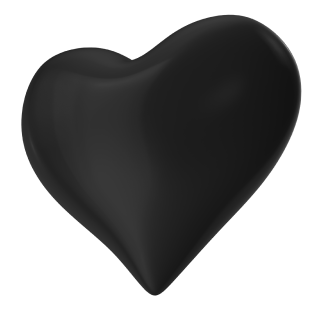
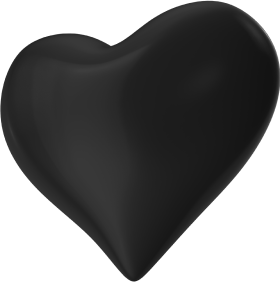
refactor: crop imgages, change styles

Changed region(s): [[0.0, 0.0, 1.0, 1.0]]

diff --git a/src/widget/TileTab/TileTab.module.css b/src/widget/TileTab/TileTab.module.css
@@ -1,26 +1,21 @@
 .container {
   display: grid;
   grid-template-columns: repeat(2, 1fr);
-
   column-gap: 30px;
   row-gap: 36px;
 }
 
 .title {
   display: flex;
-
   grid-column: 1/3;
   align-items: center;
   justify-content: center;
-
   font-weight: 700;
   font-size: 28px;
   line-height: 100%;
   letter-spacing: -2.8px;
   text-align: center;
-
   background: linear-gradient(135deg, #fff 30%, rgba(255, 255, 255, 0.38) 100%);
-
   -webkit-background-clip: text;
   background-clip: text;
   -webkit-text-fill-color: transparent;
@@ -28,33 +23,26 @@
 
 .description {
   z-index: 1;
-
   grid-row: 2/3;
   grid-column: 2/3;
-
   color: rgba(255, 255, 255, 0.85);
   font-weight: 500;
   font-size: 12px;
   letter-spacing: -0.24px;
-
   opacity: 0.6;
 }
 
 .wrapper {
   position: relative;
-
   grid-row: 2/3;
   grid-column: 2/3;
-  justify-self: center;
   max-width: 392px;
-  max-height: 394px;
-
+  max-height: 240px;
   filter: blur(7.5px);
 }
 
 .wrapper::after {
   position: absolute;
-
   content: "";
   inset: 0;
 }
@@ -67,19 +55,22 @@
 
 .list {
   z-index: 5;
-
   grid-row: 2/3;
   grid-column: 1/2;
 }
 
 .glow {
   position: absolute;
-
   width: 510px;
   height: 510px;
-
   background: rgba(124, 254, 253, 0.4);
   filter: blur(245px);
+}
+
+@media screen and (min-width: 744px) {
+  .wrapper {
+    max-height: 300px;
+  }
 }
 
 @media screen and (min-width: 960px) {
@@ -91,7 +82,6 @@
   .title {
     justify-self: center;
     max-width: 680px;
-
     font-size: 56px;
   }
 
@@ -100,6 +90,10 @@
     font-size: 24px;
     line-height: 28.8px;
     letter-spacing: -0.48px;
+  }
+
+  .wrapper {
+    max-height: 350px;
   }
 }
 
@@ -112,7 +106,6 @@
   .title {
     grid-column: 1/2;
     max-width: 844px;
-
     font-size: 56px;
   }
 
@@ -126,7 +119,6 @@
   .description {
     grid-row: 1/2;
     grid-column: 2/3;
-
     color: #f5f5f5;
     font-size: 22px;
     line-height: 36px;
@@ -137,9 +129,9 @@
     grid-row: 2/3;
     grid-column: 1/2;
     max-width: 788px;
-    max-height: 788px;
-
+    max-height: 655px;
     filter: none;
+    justify-content: center;
   }
 
   .list {

diff --git a/src/widget/Internship/InternshipWorkBenefits/InternshipWorkBenefits.module.css b/src/widget/Internship/InternshipWorkBenefits/InternshipWorkBenefits.module.css
@@ -46,9 +46,8 @@
 
 .forth {
   position: absolute;
-  top: -10%;
+  top: 10%;
   left: 0%;
-
   width: 100%;
 }
 
@@ -61,11 +60,9 @@
 
 .six {
   position: absolute;
-  right: 0;
-  bottom: 20%;
-  left: 0;
-
-  width: 100%;
+  top: 10%;
+  right: 10%;
+  width: 80%;
   rotate: 45deg;
 }
 
@@ -172,26 +169,24 @@
 
   .forth {
     position: absolute;
-    top: -40%;
-    left: 25%;
-
+    top: 5%;
+    right: -25%;
+    left: unset;
     width: 80%;
   }
 
   .fifth {
-    top: 0;
-    right: 0;
+    top: 5%;
+    right: 5%;
     left: unset;
-
-    width: 43%;
+    width: 40%;
   }
 
   .six {
-    top: -10%;
-    right: -10%;
-    left: 20%;
-
+    top: 2%;
+    right: -5%;
     width: 85%;
+    left: unset;
   }
 
   .wrapper {
@@ -319,9 +314,8 @@
   }
 
   .forth {
-    top: -30%;
-    left: 25%;
-
+    top: 10%;
+    left: 30%;
     width: 100%;
   }
 

diff --git a/src/widget/OfficeBenefits/OfficeBenefits.module.css b/src/widget/OfficeBenefits/OfficeBenefits.module.css
@@ -29,8 +29,8 @@
   justify-content: center;
   width: 25px;
   height: 25px;
-
   color: var(--clr-main-text);
+  cursor: pointer;
 }
 
 .sliderArrow img {
@@ -56,7 +56,7 @@
   width: 5px;
   height: 5px;
   border-radius: 50%;
-
+  cursor: pointer;
   background-color: var(--clr-border);
 }
 
